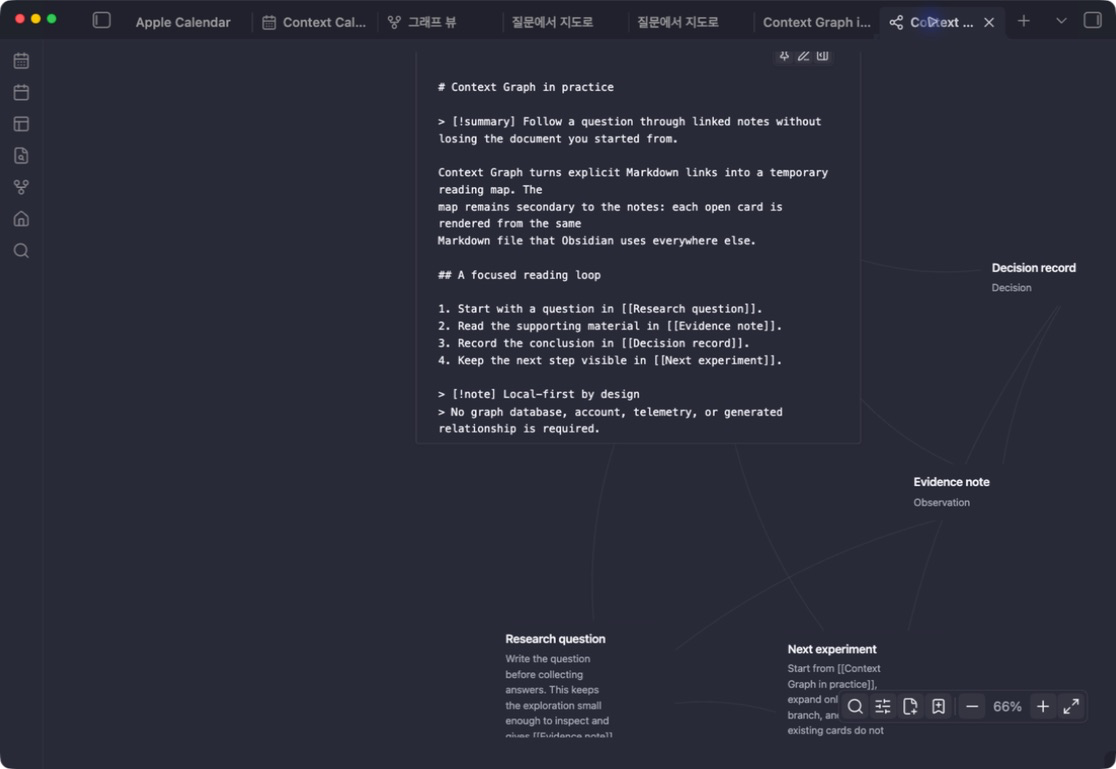
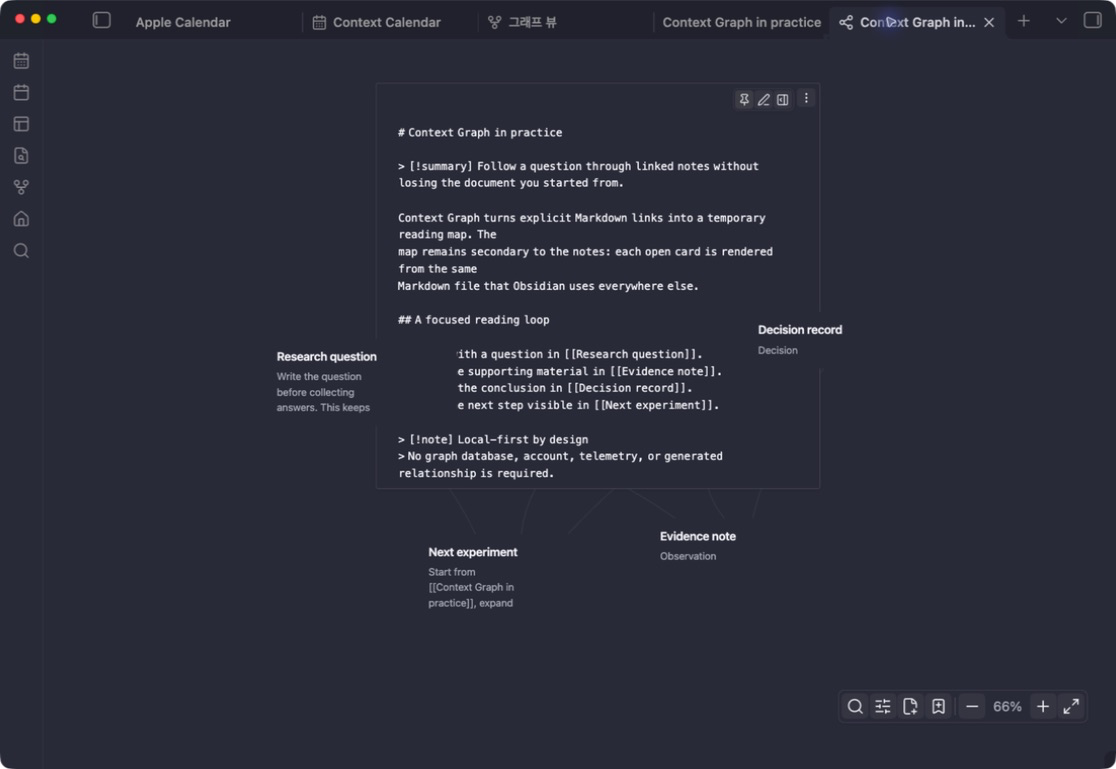
fix: clear Community release review warnings

diff --git a/styles.css b/styles.css
@@ -726,6 +726,11 @@
 
 .context-tree-view .context-tree-summary {
 	margin: 6px 0 0;
+	/* Compact cards are map labels, not miniature document readers. Bound the
+	   preview to three text lines so an unusually long first paragraph cannot
+	   cover neighbouring cards before the measured collision pass settles. */
+	max-height: calc(3.7rem * var(--ct-font-scale));
+	overflow: hidden;
 	color: var(--ct-muted);
 	font-size: calc(0.81rem * var(--ct-font-scale));
 	line-height: 1.52;
@@ -823,19 +828,17 @@
 }
 
 /* Keep the document surface quiet. Links remain discoverable through a
-   restrained underline and use the accent only on direct interaction. */
+   restrained baseline and use the accent only on direct interaction. A border
+   keeps the treatment compatible with the plugin's minimum Obsidian version. */
 .context-tree-detail a {
 	color: inherit;
-	text-decoration-line: underline;
-	text-decoration-color: color-mix(in srgb, currentColor 32%, transparent);
-	text-decoration-thickness: 1px;
-	text-underline-offset: 0.16em;
+	border-bottom: 1px solid var(--text-faint);
 }
 
 .context-tree-detail a:hover,
 .context-tree-detail a:focus-visible {
 	color: var(--text-accent);
-	text-decoration-color: currentColor;
+	border-bottom-color: currentColor;
 }
 
 /* Mirror Obsidian's Reading View class boundary so the active theme, snippets,

diff --git a/CHANGELOG.md b/CHANGELOG.md
@@ -1,5 +1,15 @@
 # Changelog
 
+## 0.5.6
+
+- Replace partially supported advanced text-decoration properties with a
+  minimum-version-compatible link baseline, clearing the Community CSS scan
+  warning without changing Reading hierarchy or interaction.
+- Bound compact summaries to a three-line map preview so long first paragraphs
+  cannot visually cover neighbouring cards during the initial overview.
+- Refresh the README overview, Reading, and Source captures from the exact
+  installed 0.5.6 build.
+
 ## 0.5.5
 
 - Replace the high-contrast graph chrome with a quiet, document-first visual
